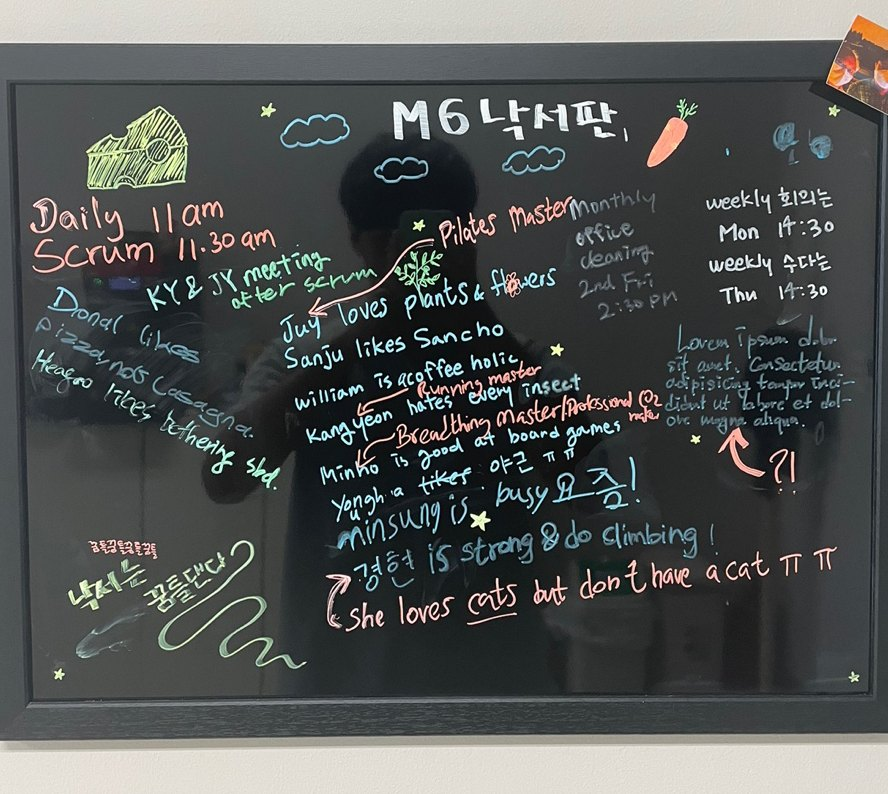
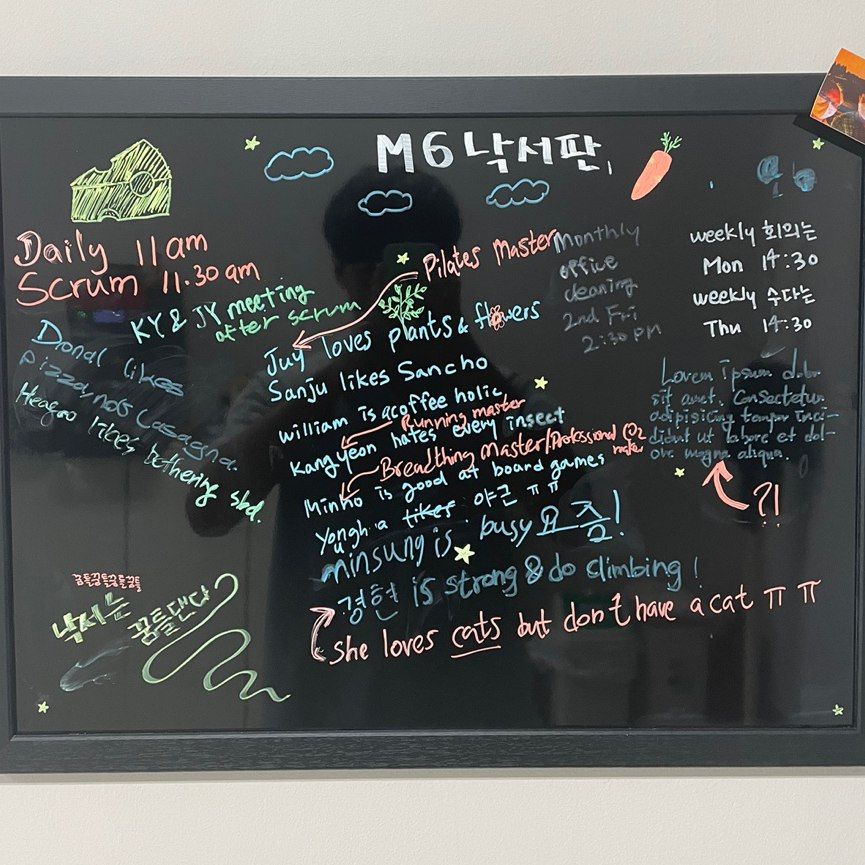
added images and changed components image names

diff --git a/src/components/Member.js b/src/components/Member.js
@@ -9,7 +9,7 @@ const Member = () => {
 				<div className="text-on-image-culture">
 					<div className="face-container1">
 						<div className="face-wrap">
-							<img className="face" src="images/W.H2.jpg" alt="William" />
+							<img className="face" src="images/W.H.jpg" alt="William" />
 							<div className="image-hover">
 								<div className="text-on-hover">정원혁(William)</div>
 							</div>
@@ -35,7 +35,7 @@ const Member = () => {
 							</div>
 						</div>
 						<div className="face-wrap">
-							<img className="face" src="images/G.H.JPG" alt="Kyeonghyeon" />
+							<img className="face" src="images/G.H.jpg" alt="Gyeonghyeon" />
 							<div className="image-hover">
 								<div className="text-on-hover">조경현</div>
 							</div>
@@ -79,21 +79,21 @@ const Member = () => {
 						<div className="face-wrap">
 							<img
 								className="bulletin"
-								src="images/M6-culture-1.png"
+								src="images/M6-culture-1.jpg"
 								alt="bulletin board"
 							/>
 						</div>
 						<div className="face-wrap">
 							<img
 								className="bulletin"
-								src="images/M6-culture-2.png"
+								src="images/M6-culture-2.jpg"
 								alt="bulletin board"
 							/>
 						</div>
 						<div className="face-wrap">
 							<img
 								className="bulletin"
-								src="images/M6-culture-3.png"
+								src="images/M6-culture-3.jpg"
 								alt="bulletin board"
 							/>
 						</div>

diff --git a/src/App.css b/src/App.css
@@ -34,7 +34,7 @@
 }
 
 .vision {
-	background-image: url("/images/app.jpeg");
+	background-image: url("/images/app.jpg");
 	background-position: center;
 	background-size: cover;
 	background-repeat: no-repeat;
@@ -56,6 +56,6 @@
 		background-position: bottom;
 	}
 	.culture {
-		height: 500vh;
+		height: 520vh;
 	}
 }

diff --git a/src/components/Cards.js b/src/components/Cards.js
@@ -8,7 +8,7 @@ function Cards() {
 			<div className="container">
 				<div className="cards__wrapper">
 					<ul className="cards__items">
-						<CardItem src="images/mainpage.png" path="/culture" />
+						<CardItem src="images/mainpage.jpg" path="/culture" />
 					</ul>
 				</div>
 			</div>
